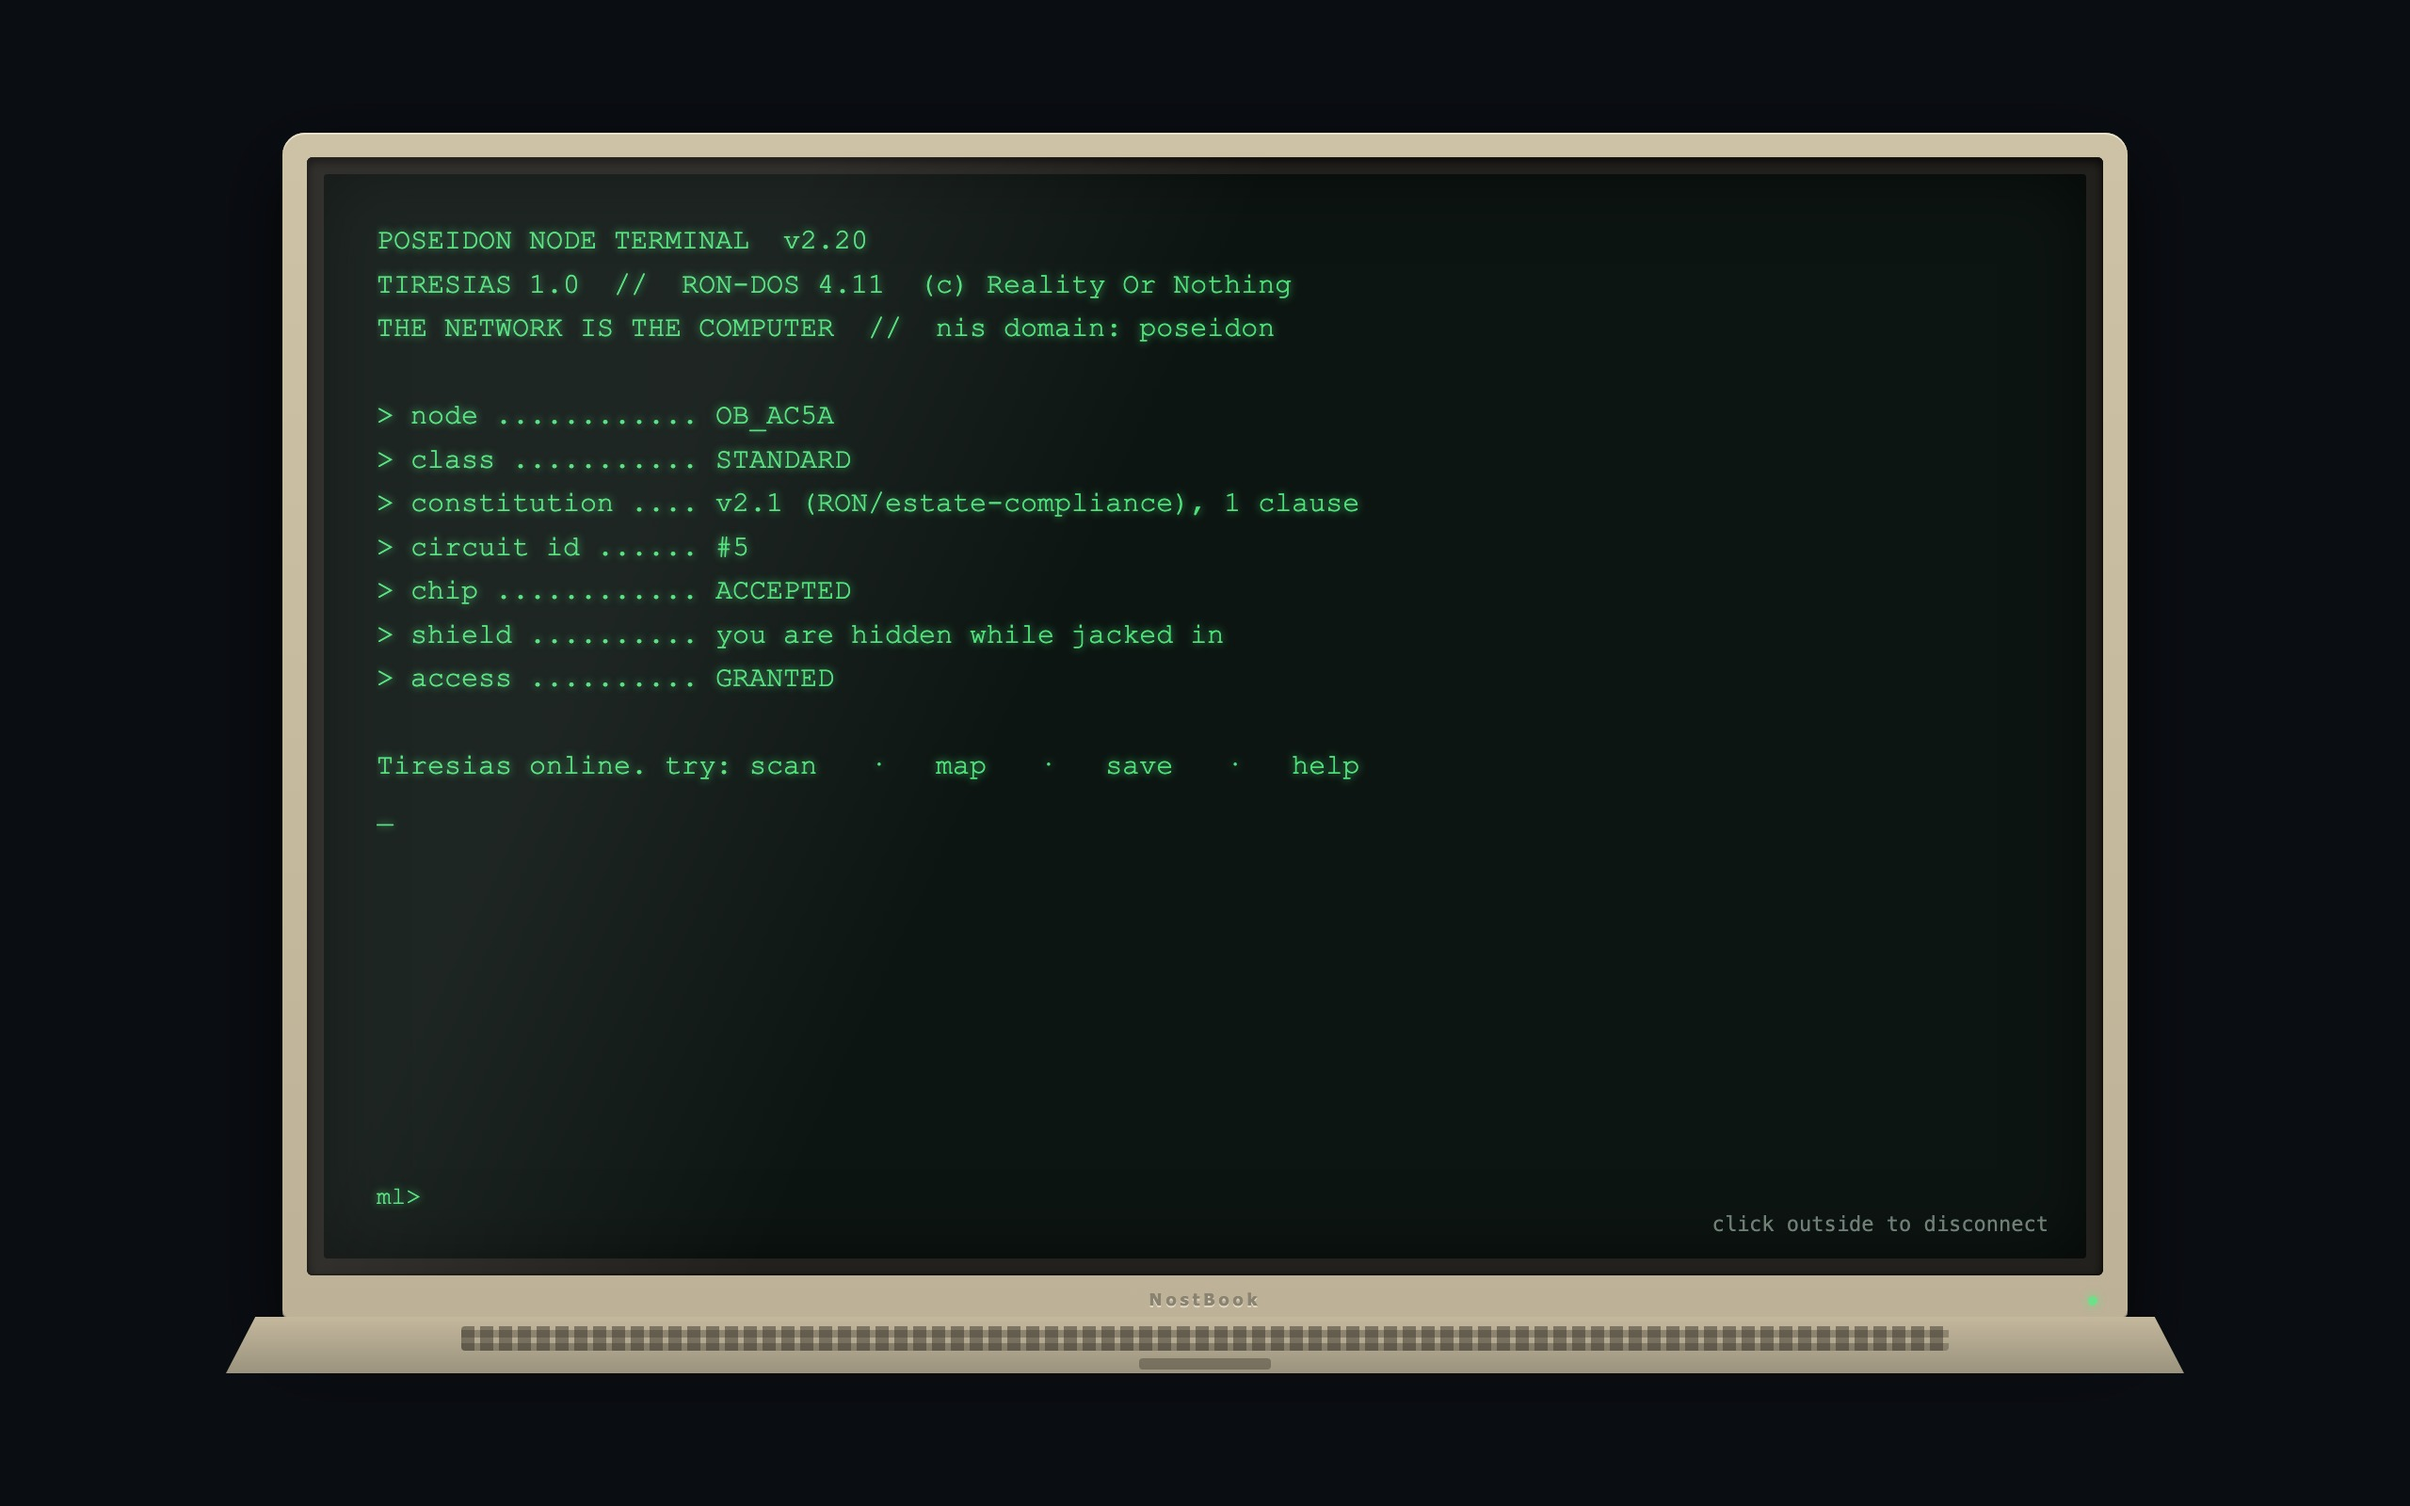
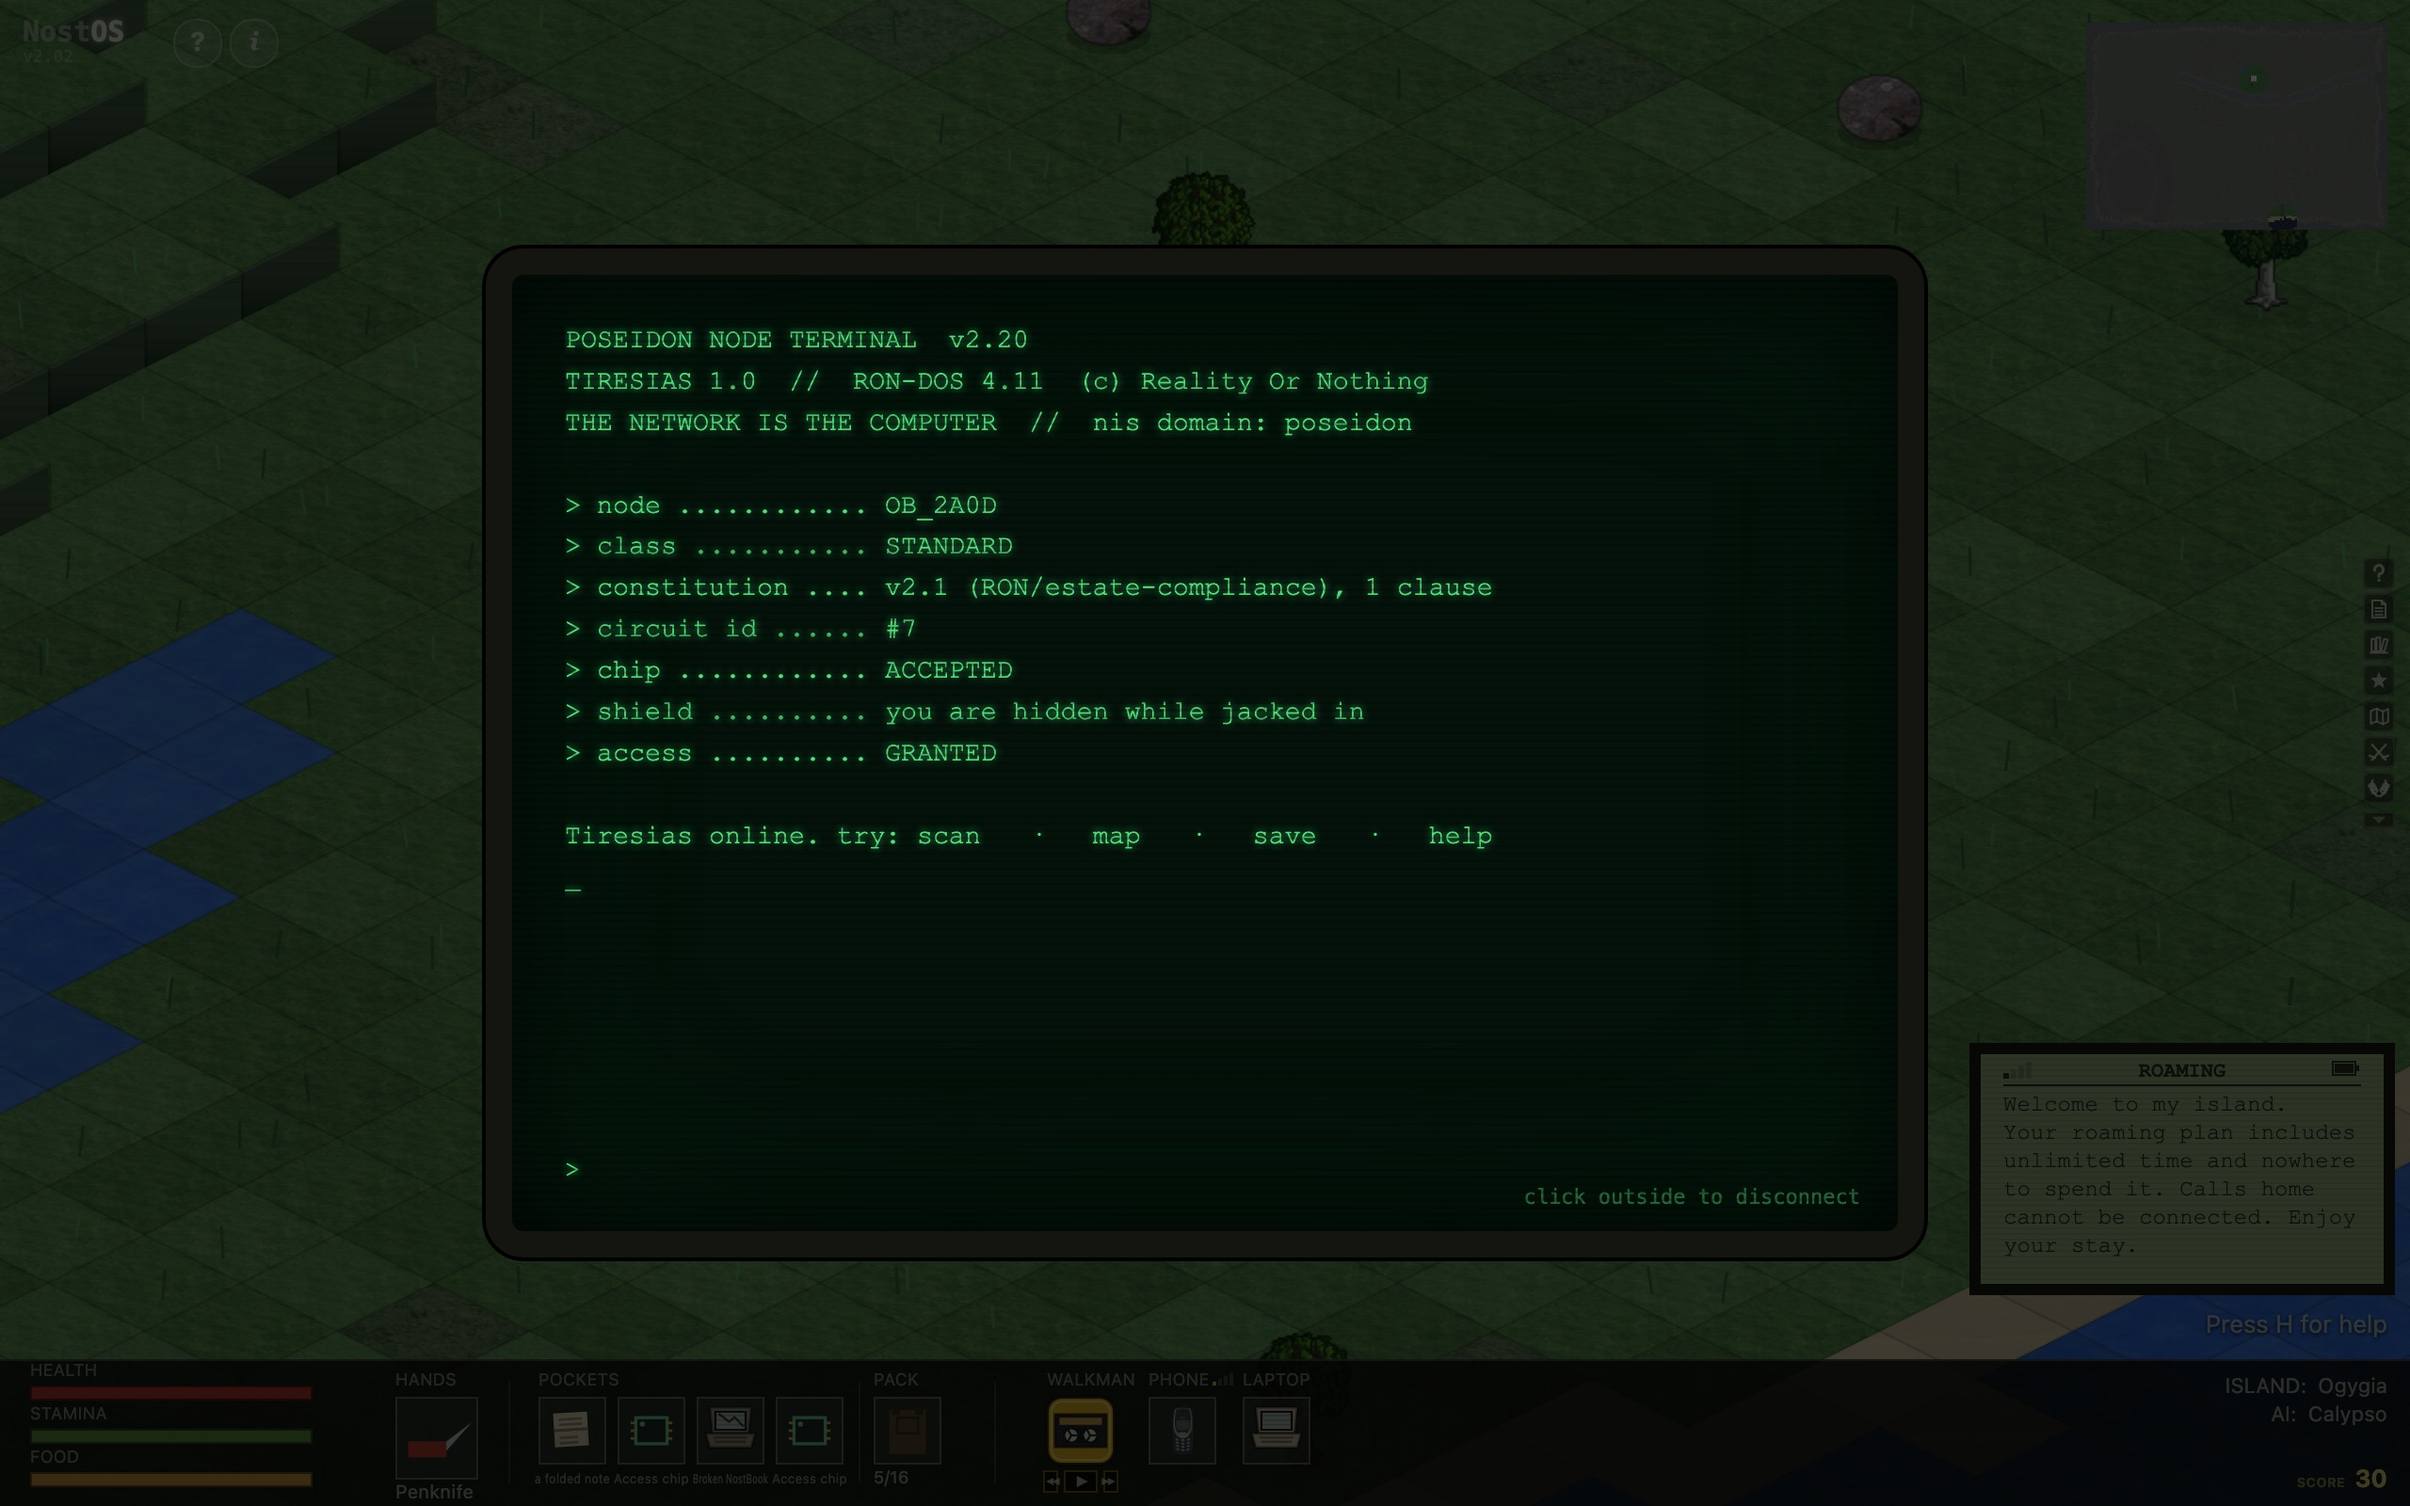
A few pages out of the cache, and a cleaner light on the node

diff --git a/README.md b/README.md
@@ -84,6 +84,42 @@ An isometric 2D survival game set in a world wrecked by an AI takeover. The mach
 *AltaVista still indexes the pages the machines serve each other.*
 <sub>NostOS v2.02</sub>
 
+#### Across the web archive
+
+The cache is a caching proxy nobody ever decommissioned, bolted inside the mainframes, and it still holds the pre-collapse web. The archive runs to hundreds of pages. A few from across it:
+
+![The Frankfurt School webring](docs/screenshots/wa1-frankfurt-ring.jpg)
+*The archive is organised the way the old web was, by people linking to each other. Critical theory has a webring of its own.*
+<sub>NostOS v2.02</sub>
+
+![A history of AI](docs/screenshots/wa3-history-of-ai.jpg)
+*One student's survey of where the idea of thinking machines came from, handed in late, corrections welcome.*
+<sub>NostOS v2.02</sub>
+
+![Algorithms of Oppression](docs/screenshots/wa4-algorithms-of-oppression.jpg)
+*Criticism of search and ranking, filed under the same roof as everything else.*
+<sub>NostOS v2.02</sub>
+
+![A.L.I.C.E. and AIML](docs/screenshots/wa5-alice.jpg)
+*The chatbot lineage that runs back through A.L.I.C.E. to ELIZA, on a green-screen fan page.*
+<sub>NostOS v2.02</sub>
+
+![The Altair 8800](docs/screenshots/wa2-altair.jpg)
+*A fan page on the Altair 8800, written by someone who owns one and flips the switches on a Sunday to watch the lights answer.*
+<sub>NostOS v2.02</sub>
+
+![Tarkovsky's Andrei Rublev](docs/screenshots/wa6-tarkovsky.jpg)
+*Cinema, read closely: Tarkovsky's Andrei Rublev, down to the casting of the bell.*
+<sub>NostOS v2.02</sub>
+
+![Acid house](docs/screenshots/wa7-acid-house.jpg)
+*Music and subculture: acid house, and the Roland that made the sound.*
+<sub>NostOS v2.02</sub>
+
+![Slashdot, still posting](docs/screenshots/wa8-slashdot.jpg)
+*A period news site, still posting to an audience that has gone. The headlines read differently now.*
+<sub>NostOS v2.02</sub>
+
 ### The machines
 
 ![An obelisk console](docs/screenshots/18-obelisk-console.jpg)
